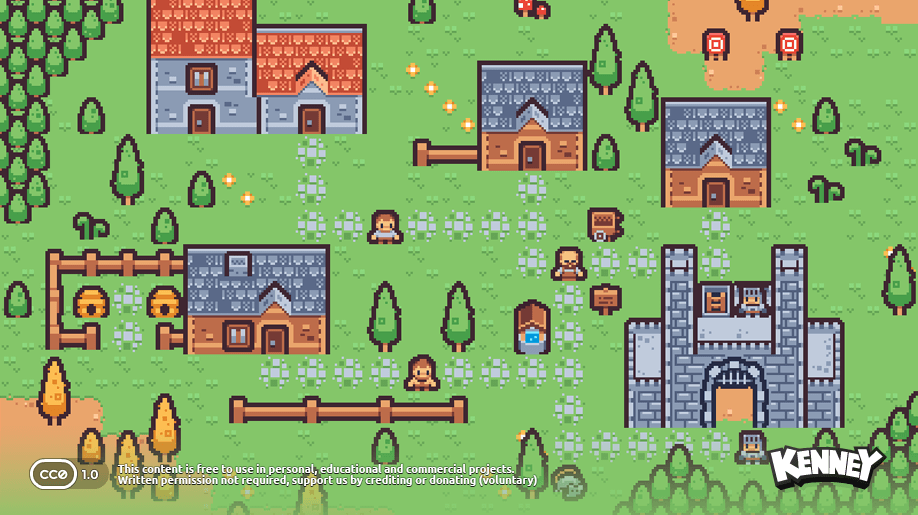
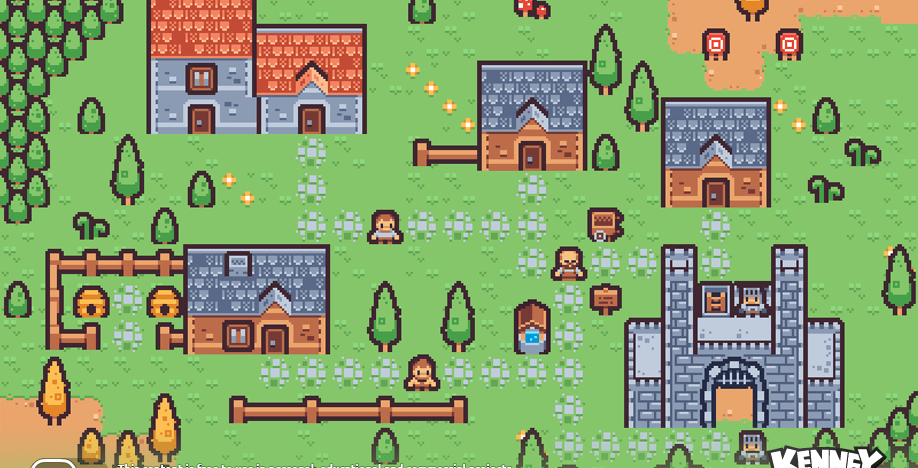
crop branding from village image and open castle gate
Removed Kenney logo bar from bottom of village_bg.png.
Split castle collision into separate walls with open gate entrance.

diff --git a/js/main.js b/js/main.js
@@ -1,36 +1,138 @@
 // ============================================
-// Mob Slayer — Village Preview
-// Uses Kenney Tiny Town sample map directly!
+// Mob Slayer — Village Walkabout
+// Kenney Tiny Town — walk around the village!
 // ============================================
 
-class VillagePreview extends Phaser.Scene {
-    constructor() {
-        super('VillagePreview');
-    }
+class BootScene extends Phaser.Scene {
+    constructor() { super('Boot'); }
 
     preload() {
-        // Load Kenney's actual sample village map
         this.load.image('village', 'assets/village_bg.png');
+        this.load.spritesheet('tiles', 'assets/tilemap.png', {
+            frameWidth: 16,
+            frameHeight: 16
+        });
     }
 
     create() {
-        // Show the Kenney village, scaled to fit the screen
-        const bg = this.add.image(400, 225, 'village');
+        this.scene.start('Village');
+    }
+}
 
-        // Scale it to fit nicely — the image is 918x515
-        // We want it to fill the 800x450 game window
-        const scaleX = 800 / bg.width;
-        const scaleY = 450 / bg.height;
-        const scale = Math.max(scaleX, scaleY);
-        bg.setScale(scale);
+class VillageScene extends Phaser.Scene {
+    constructor() { super('Village'); }
 
-        // Title
-        this.add.text(400, 20, 'Mob Slayer — Village', {
-            fontSize: '24px',
-            fill: '#fff',
-            stroke: '#000',
-            strokeThickness: 4
-        }).setOrigin(0.5);
+    create() {
+        // Village background — this IS the world
+        const bg = this.add.image(0, 0, 'village').setOrigin(0, 0);
+
+        // Set world bounds to match the image
+        this.physics.world.setBounds(0, 0, bg.width, bg.height);
+
+        // Camera setup — bounded to the world, zoomed in 2x for crisp pixels
+        this.cameras.main.setBounds(0, 0, bg.width, bg.height);
+        this.cameras.main.setZoom(2);
+
+        // Player — tile 128 from Kenney tilemap (the knight!)
+        this.player = this.physics.add.sprite(460, 300, 'tiles', 128);
+        this.player.setCollideWorldBounds(true);
+
+        // Scale player up a bit so they match the world
+        this.player.setScale(1);
+        this.player.body.setSize(12, 12);
+        this.player.body.setOffset(2, 4);
+
+        // Camera follows the player smoothly
+        this.cameras.main.startFollow(this.player, true, 0.1, 0.1);
+
+        // Collision walls over buildings, trees, castle
+        this.walls = this.physics.add.staticGroup();
+
+        const addWall = (x, y, w, h) => {
+            const wall = this.add.rectangle(x, y, w, h, 0xff0000, 0);
+            this.physics.add.existing(wall, true);
+            this.walls.add(wall);
+        };
+
+        // Top-left house (big brown one)
+        addWall(200, 105, 160, 110);
+
+        // Top-middle house (blue/gray roof)
+        addWall(410, 90, 130, 100);
+
+        // Bottom-left house (brown)
+        addWall(145, 310, 150, 100);
+
+        // Castle — left wall (left of gate)
+        addWall(700, 200, 60, 160);
+        // Castle — right wall (right of gate)
+        addWall(820, 200, 80, 160);
+        // Castle — top (above gate)
+        addWall(760, 140, 200, 50);
+        // Castle — towers on sides
+        addWall(670, 300, 30, 100);
+        addWall(870, 300, 30, 100);
+
+        // Trees — top-left cluster
+        addWall(30, 80, 50, 60);
+        addWall(30, 190, 50, 50);
+        addWall(30, 310, 40, 50);
+
+        // Trees — scattered
+        addWall(300, 20, 40, 50);
+        addWall(360, 30, 30, 40);
+        addWall(470, 190, 30, 40);
+        addWall(530, 50, 30, 40);
+
+        // Trees — right side
+        addWall(830, 80, 40, 50);
+        addWall(880, 140, 40, 50);
+        addWall(870, 360, 40, 50);
+
+        // Trees — bottom
+        addWall(60, 430, 50, 40);
+        addWall(830, 440, 60, 30);
+
+        // Fences
+        addWall(80, 230, 70, 10);
+        addWall(410, 410, 250, 10);
+
+        // Collide player with walls
+        this.physics.add.collider(this.player, this.walls);
+
+        // Arrow keys + WASD input
+        this.cursors = this.input.keyboard.createCursorKeys();
+        this.wasd = this.input.keyboard.addKeys({
+            up: Phaser.Input.Keyboard.KeyCodes.W,
+            down: Phaser.Input.Keyboard.KeyCodes.S,
+            left: Phaser.Input.Keyboard.KeyCodes.A,
+            right: Phaser.Input.Keyboard.KeyCodes.D
+        });
+    }
+
+    update() {
+        const speed = 120;
+        this.player.setVelocity(0);
+
+        // Horizontal movement
+        if (this.cursors.left.isDown || this.wasd.left.isDown) {
+            this.player.setVelocityX(-speed);
+        } else if (this.cursors.right.isDown || this.wasd.right.isDown) {
+            this.player.setVelocityX(speed);
+        }
+
+        // Vertical movement
+        if (this.cursors.up.isDown || this.wasd.up.isDown) {
+            this.player.setVelocityY(-speed);
+        } else if (this.cursors.down.isDown || this.wasd.down.isDown) {
+            this.player.setVelocityY(speed);
+        }
+
+        // Normalize diagonal so you don't go faster diagonally
+        if (this.player.body.velocity.x !== 0 && this.player.body.velocity.y !== 0) {
+            this.player.setVelocityX(this.player.body.velocity.x * 0.707);
+            this.player.setVelocityY(this.player.body.velocity.y * 0.707);
+        }
     }
 }
 
@@ -40,7 +142,11 @@ const config = {
     height: 450,
     pixelArt: true,
     backgroundColor: '#5a8f3c',
-    scene: [VillagePreview]
+    physics: {
+        default: 'arcade',
+        arcade: { gravity: { y: 0 }, debug: false }
+    },
+    scene: [BootScene, VillageScene]
 };
 
 const game = new Phaser.Game(config);
